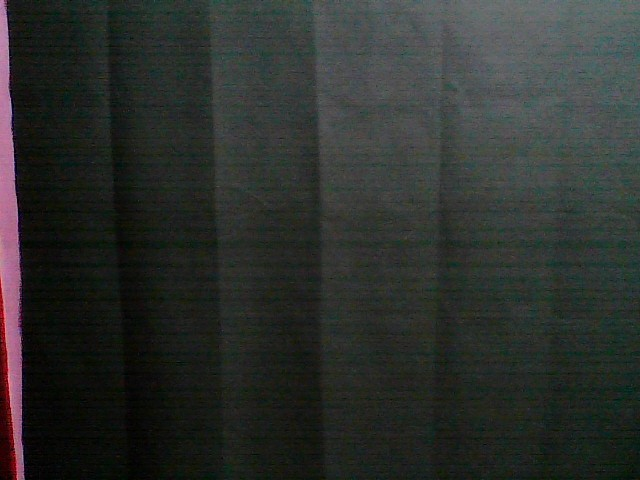
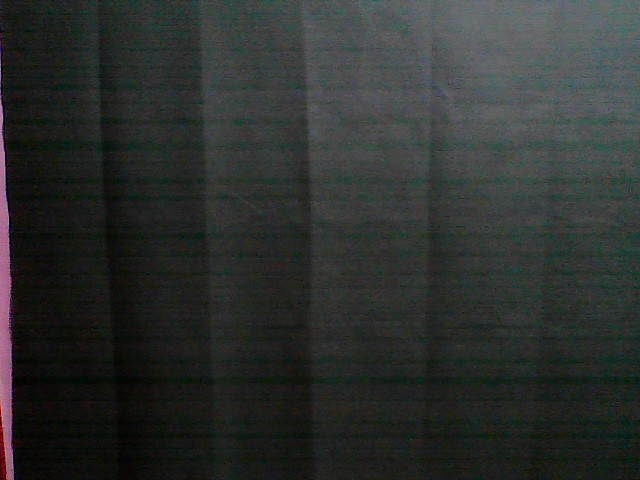
j

diff --git a/Testing/Mask/main.py b/Testing/Mask/main.py
@@ -2,12 +2,12 @@ import cv2
 import numpy as np
 
 # read input image
-bg = cv2.imread('bgp.jpg')
+bg = cv2.imread('bgnp.jpg')
 
 cap = cv2.VideoCapture(0)
 
 # define range of blue color in HSV
-lower_blue = np.array([100,20,80])
+lower_blue = np.array([100,20,30])
 upper_blue = np.array([130,255,255])
 
 while True:
@@ -23,7 +23,7 @@ while True:
     result = cv2.addWeighted(bgtmp, 1, result, 1, 0)
 
     cv2.imshow('Masked Image',result)
-    cv2.imshow('Mask',mask)
+    #cv2.imshow('Mask',mask)
     if cv2.waitKey(1) & 0xFF == ord('q'):
         break
 cv2.destroyAllWindows()
